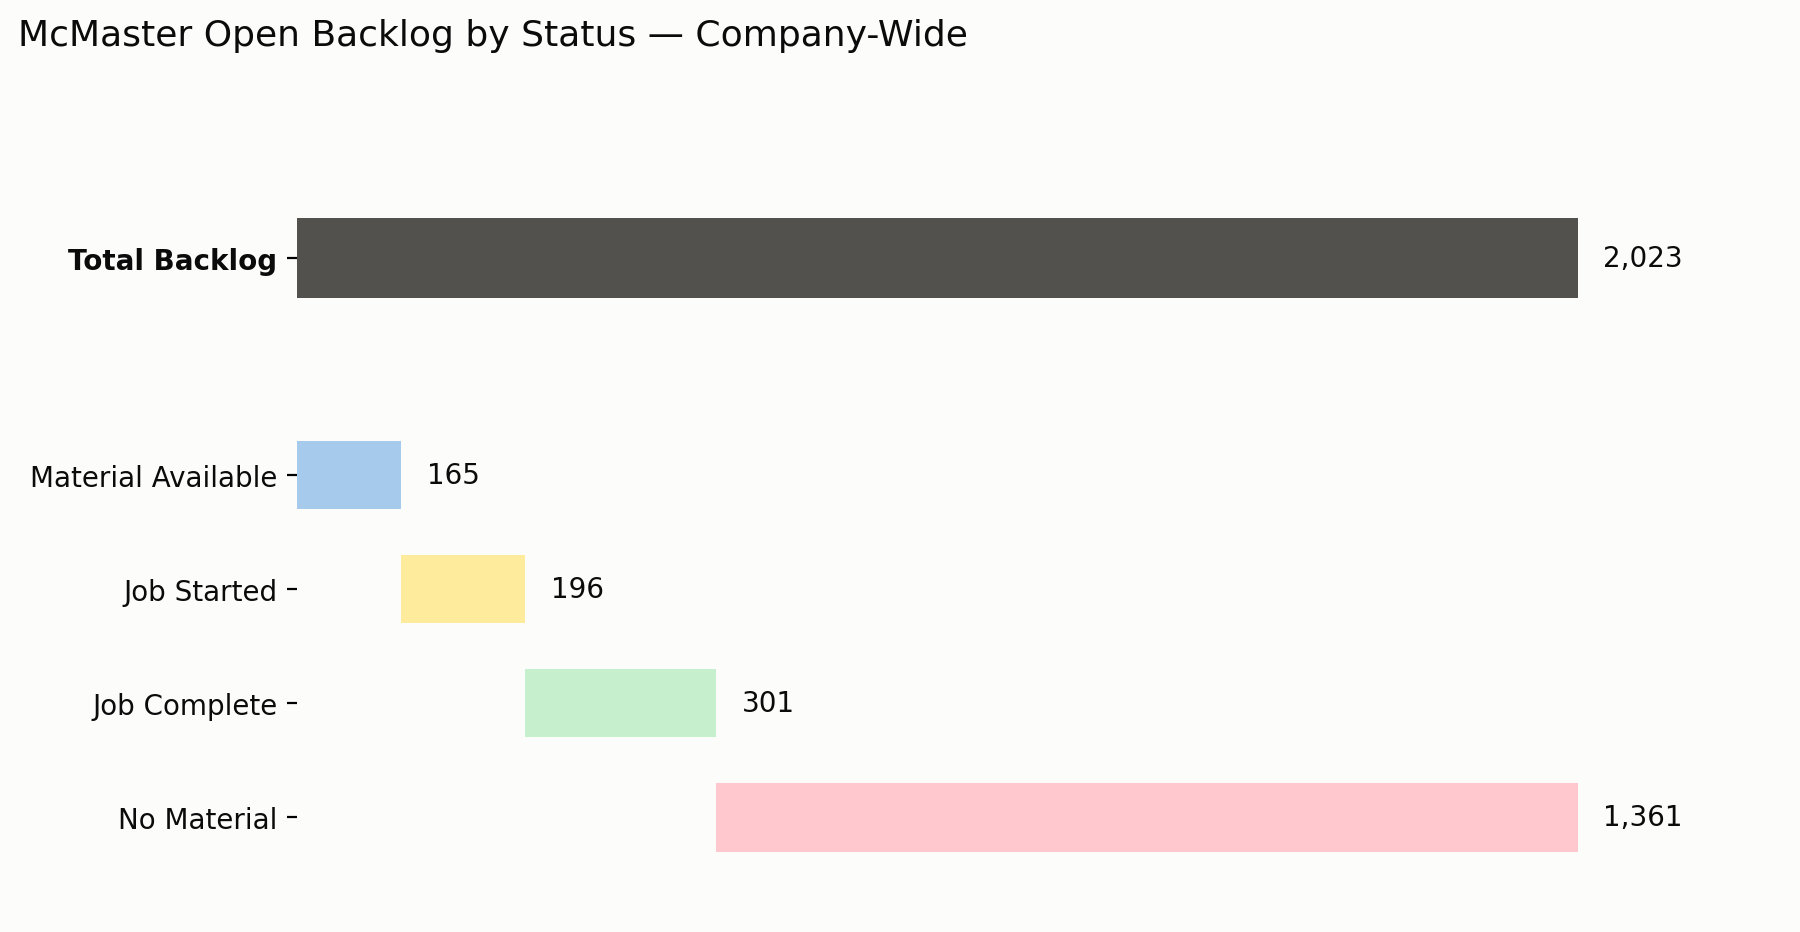
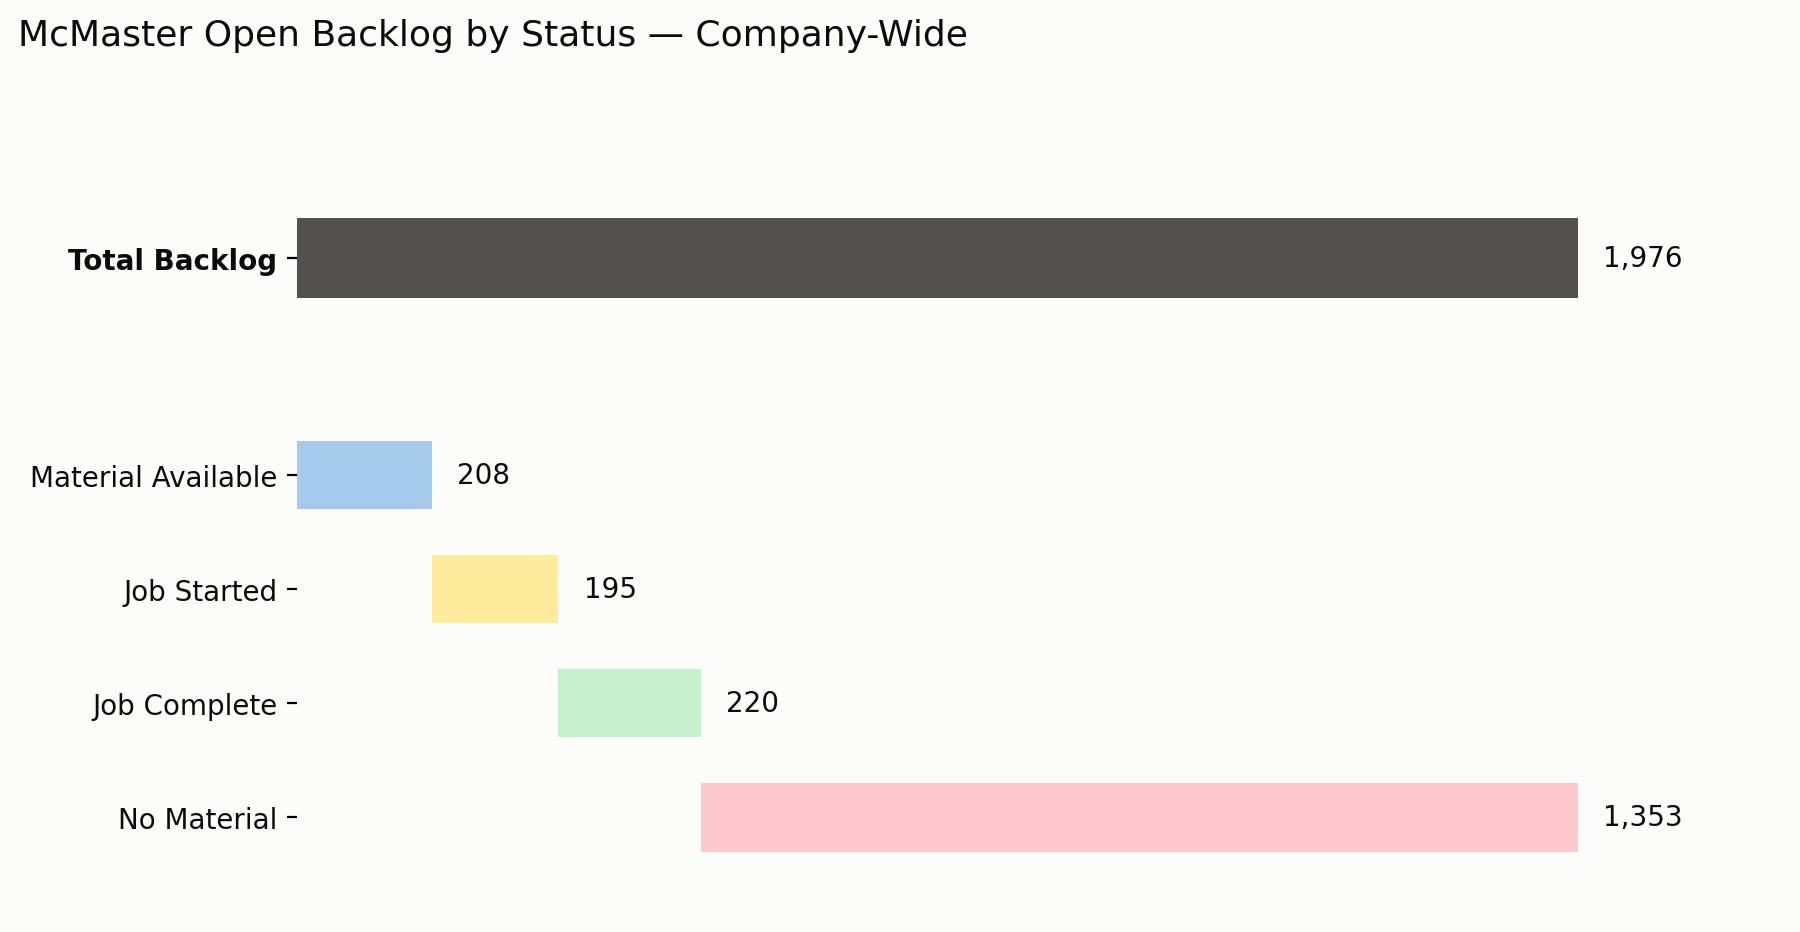
sync

diff --git a/reports/yield/yield_output.py b/reports/yield/yield_output.py
@@ -7,15 +7,22 @@ import pandas as pd
 from etl.utils.connect_postgres import get_postgres_connection
 
 ARCHIVE_DIR = os.path.join("reports", "yield", "archive")
+OPERATIONS_YIELD_DIR = (
+    r"C:\Users\mcurphey\OneDrive - A. M. Castle & Co\Operations - Documents\Reporting\Yield"
+)
 
 
-def _export_mart(mart: str, sharepoint_dir: str, where: str = None):
+def _export_mart(mart: str, sharepoint_dirs, where: str = None):
     """
-    Export a yield mart to CSV, copy it to SharePoint, and archive a dated
-    copy. Shared save-local / copy-to-SharePoint / dated-archive pattern
-    already used for the McMaster report. Pass `where` to filter rows
-    (e.g. limit to a single day); omit it to export the mart as-is.
+    Export a yield mart to CSV, copy it to one or more SharePoint/OneDrive
+    dirs, and archive a dated copy. Shared save-local / copy-to-SharePoint /
+    dated-archive pattern already used for the McMaster report. Pass `where`
+    to filter rows (e.g. limit to a single day); omit it to export the mart
+    as-is.
     """
+    if isinstance(sharepoint_dirs, str):
+        sharepoint_dirs = [sharepoint_dirs]
+
     engine = get_postgres_connection()
     query = f"SELECT * FROM analytics_marts.{mart}"
     if where:
@@ -31,9 +38,10 @@ def _export_mart(mart: str, sharepoint_dir: str, where: str = None):
     df.to_csv(output_path, index=False, encoding="utf-8-sig")
     print(f"Report written: {output_path} ({len(df)} rows)")
 
-    os.makedirs(sharepoint_dir, exist_ok=True)
-    shutil.copy2(output_path, os.path.join(sharepoint_dir, f"{mart}.csv"))
-    print(f"Copied to SharePoint: {sharepoint_dir}")
+    for sharepoint_dir in sharepoint_dirs:
+        os.makedirs(sharepoint_dir, exist_ok=True)
+        shutil.copy2(output_path, os.path.join(sharepoint_dir, f"{mart}.csv"))
+        print(f"Copied to: {sharepoint_dir}")
 
     os.makedirs(ARCHIVE_DIR, exist_ok=True)
     dated_name = f"{mart}_{date.today():%Y_%m_%d}.csv"
@@ -46,7 +54,10 @@ def yield_output():
     """Export mart_yield_siteopdate — the source file the Yield Loss Power BI dataset refreshes from."""
     _export_mart(
         "mart_yield_siteopdate",
-        r"C:\Users\mcurphey\A. M. Castle & Co\Analytics_ETL - Documents\etl_dumps",
+        [
+            r"C:\Users\mcurphey\A. M. Castle & Co\Analytics_ETL - Documents\etl_dumps",
+            OPERATIONS_YIELD_DIR,
+        ],
     )
 
 
@@ -57,6 +68,9 @@ def yield_mart_output():
     """
     _export_mart(
         "mart_yield_output",
-        r"C:\Users\mcurphey\A. M. Castle & Co\Analytics_ETL - Documents\yield",
+        [
+            r"C:\Users\mcurphey\A. M. Castle & Co\Analytics_ETL - Documents\yield",
+            OPERATIONS_YIELD_DIR,
+        ],
         where="complete_date = current_date - 1",
     )

diff --git a/reports/productivity/branch_config.py b/reports/productivity/branch_config.py
@@ -16,7 +16,7 @@ BRANCHES = {
     "JVL": {"to": "rojones@amcastle.com",                                            "cc": CC_US_CAN,  "greeting": "Hi Rob/Kevin,",           "active": True},
     "LOS": {"to": "shage@amcastle.com",                                              "cc": CC_US_CAN,  "greeting": "Hi Salim,",               "active": True},
     "MCH": {"to": "agarcia@amcastle.com; asantiago@amcastle.com",                    "cc": CC_INTL_MX, "greeting": "Hi,",                     "active": True},
-    "MTY": {"to": "agarcia@amcastle.com",                                            "cc": CC_INTL_MX, "greeting": "Hi,",                     "active": True},
+    "MTY": {"to": "agarcia@amcastle.com; mcorona@amcastle.com",                      "cc": CC_INTL_MX, "greeting": "Hi,",                     "active": True},
     "MXM": {"to": "agarcia@amcastle.com; magonzalez@amcastle.com",                   "cc": CC_INTL_MX, "greeting": "Hi,",                     "active": True},
     "MXQ": {"to": "agarcia@amcastle.com; rcruz@amcastle.com",                        "cc": CC_INTL_MX, "greeting": "Hi,",                     "active": True},
     "PHI": {"to": "ddixon@amcastle.com; skilduff@amcastle.com",                      "cc": CC_US_CAN,  "greeting": "Hi Shane/Dan,",           "active": False},

diff --git a/reports/productivity/productivity_email.py b/reports/productivity/productivity_email.py
@@ -5,9 +5,9 @@ from reports.productivity.branch_config import BRANCHES
 
 #DEFAULT_ORGS = ('ASC', 'MCH','MTY','MXM','MXQ','SGP')
 #DEFAULT_ORGS = ('ASC','ENA','ENT', 'MCH','MTY','MXM','MXQ','SGP')
-DEFAULT_ORGS = ('ATL','CLE','DAL','HAI','JVL','LOS','STO','TOR','WIE')
+#DEFAULT_ORGS = ('ATL','CLE','DAL','HAI','JVL','LOS','STO','TOR','WIE')
 
-#DEFAULT_ORGS = ('ASC','ATL','CLE','DAL','ENA','ENT','HAI','JVL','LOS','MCH','MTY','MXM','MXQ','SGP','STO','TOR','WIE')
+DEFAULT_ORGS = ('ASC','ATL','CLE','DAL','ENA','ENT','HAI','JVL','LOS','MCH','MTY','MXM','MXQ','SGP','STO','TOR','WIE')
 
 
 def productivity_email(
